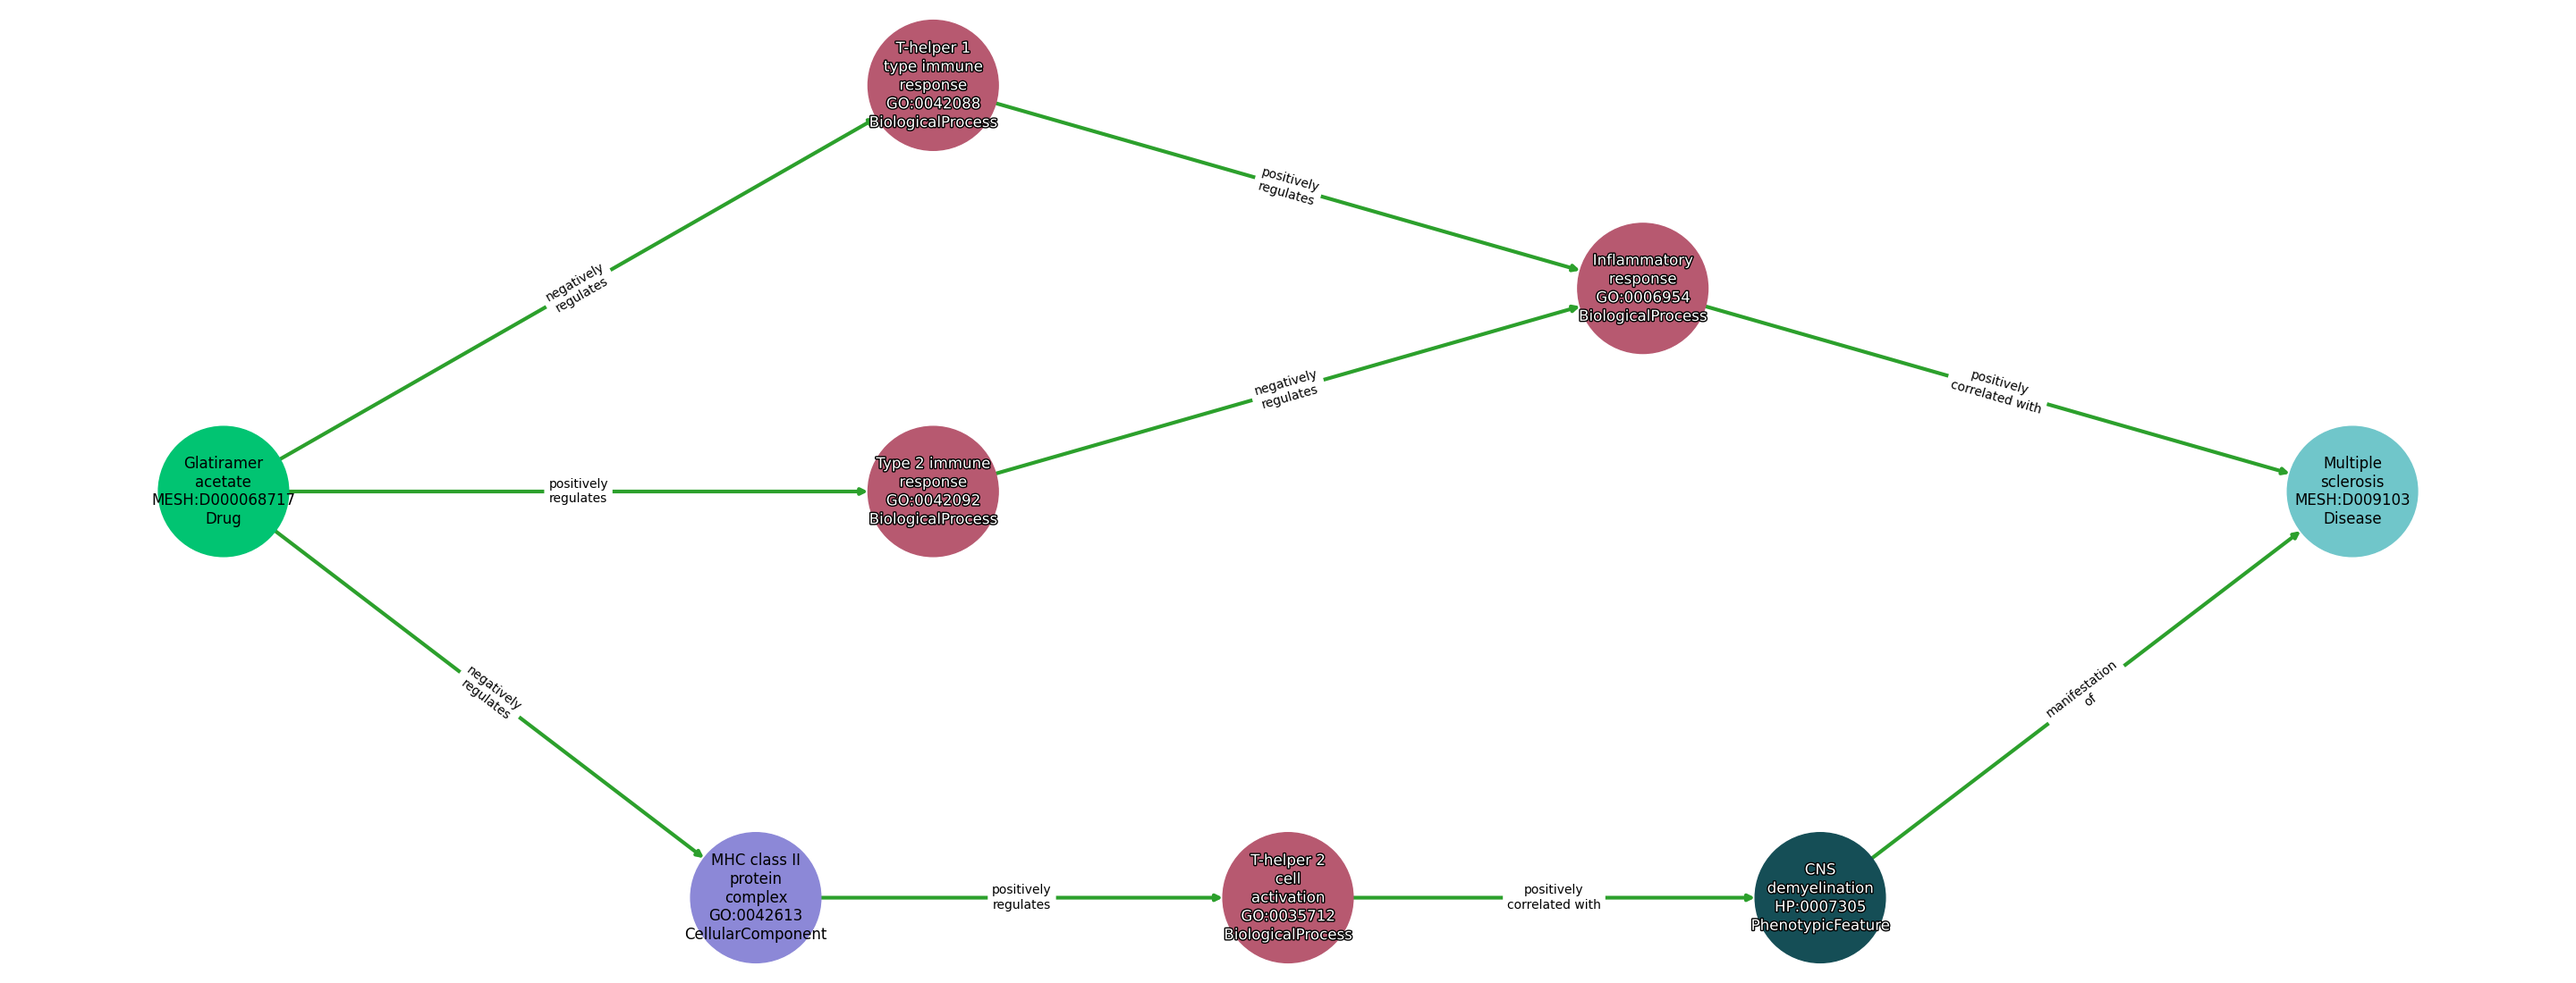
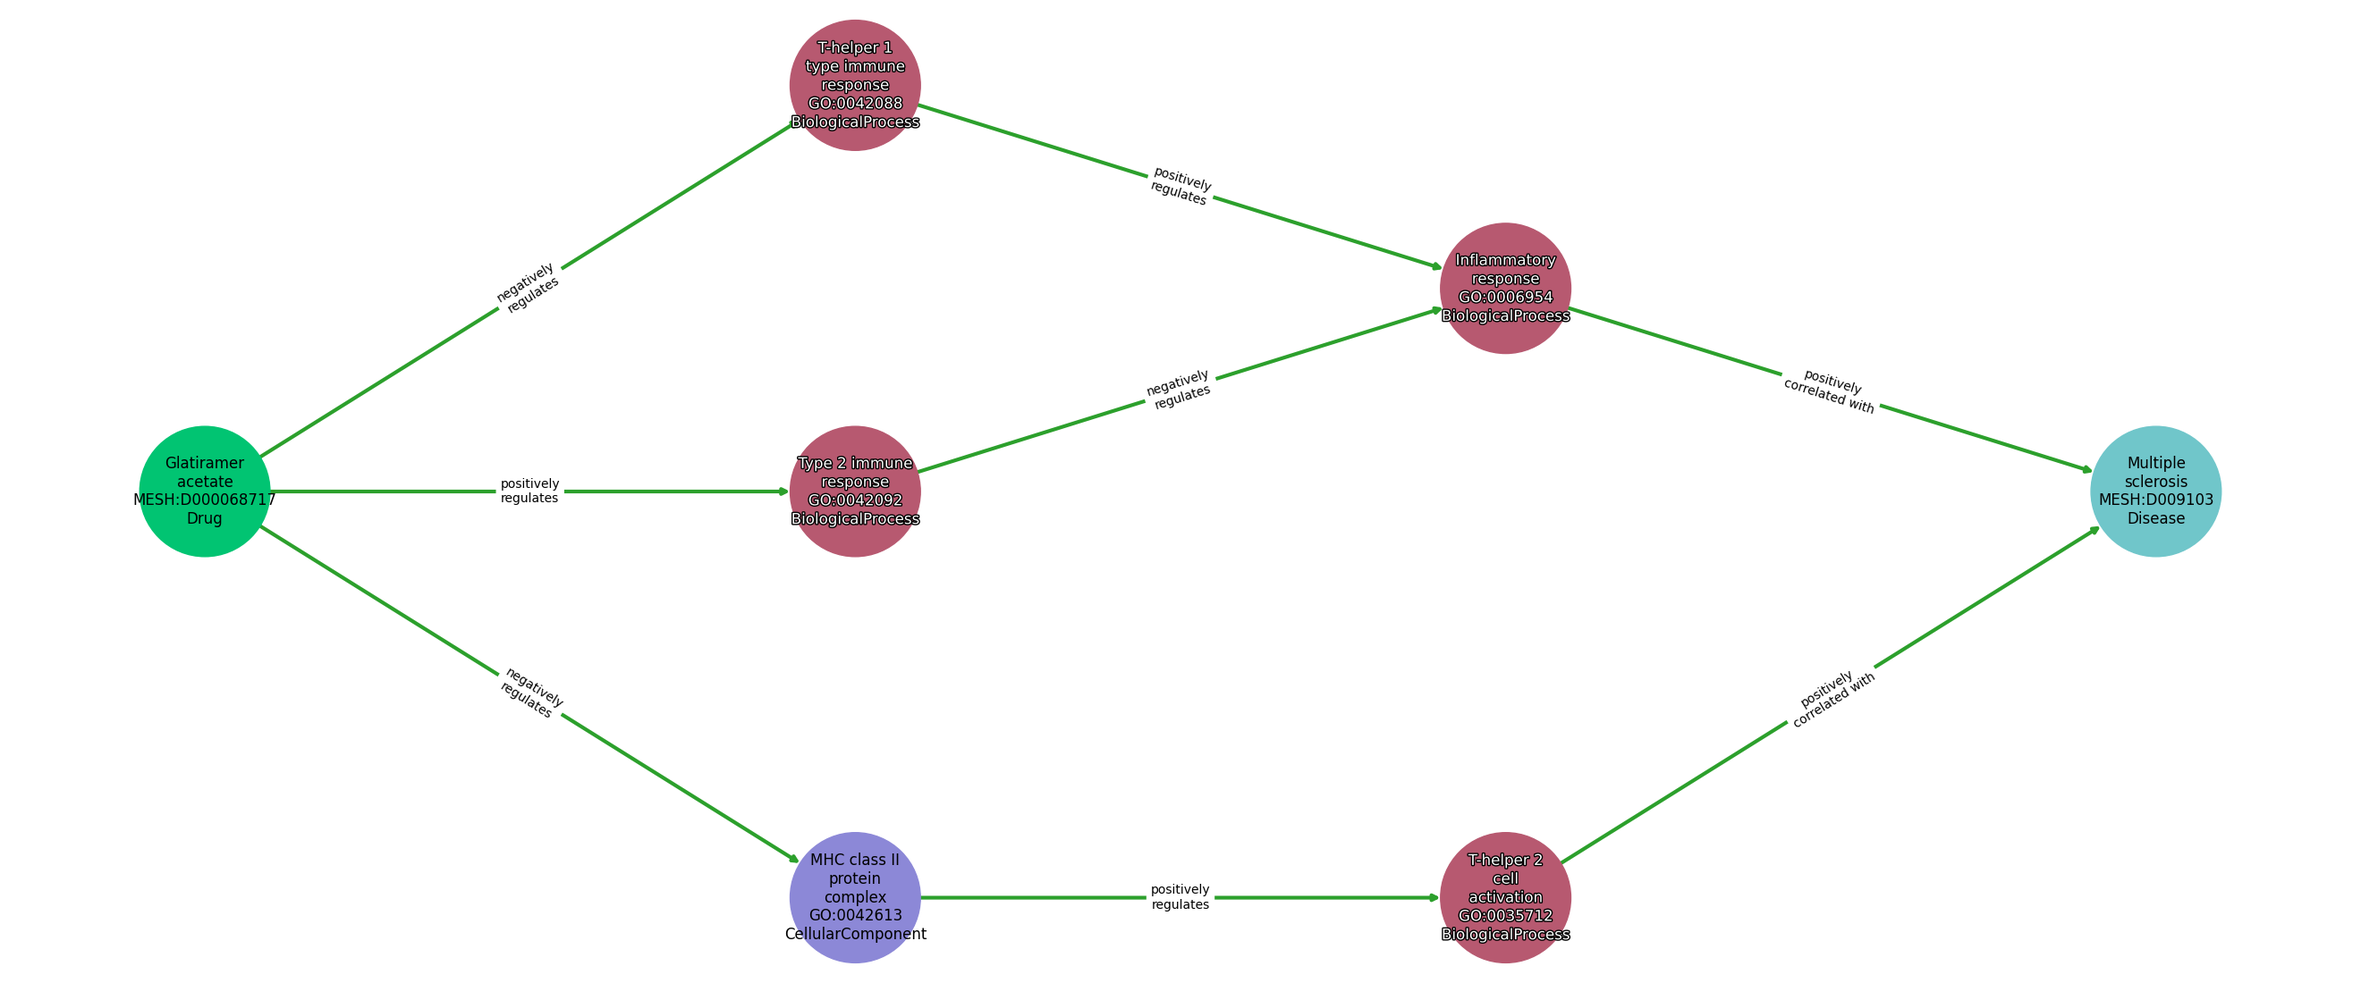
Update to Website

diff --git a/pages/mydoc/overview.md b/pages/mydoc/overview.md
@@ -2248,7 +2248,7 @@ datatable: true
 | [DB00951_MESH_D014397_1](db00951-mesh-d014397-1.html) | isoniazid | DB:DB00951 | MESH:D007538 | Pulmonary tuberculosis | MESH:D014397 | 7 | 6 |
 | [DB08908_MESH_D011565_1](db08908-mesh-d011565-1.html) | Dimethyl fumarate | DB:DB08908 | MESH:D000069462 | Psoriasis | MESH:D011565 | 9 | 10 |
 | [DB04786_MESH_D014353_1](db04786-mesh-d014353-1.html) | suramin | DB:DB04786 | MESH:D013498 | African trypanosomiasis | MESH:D014353 | 5 | 4 |
-| [DB05259_MESH_D009103_1](db05259-mesh-d009103-1.html) | glatiramer acetate | DB:DB05259 | MESH:D000068717 | Multiple sclerosis | MESH:D009103 | 8 | 9 |
+| [DB05259_MESH_D009103_1](db05259-mesh-d009103-1.html) | glatiramer acetate | DB:DB05259 | MESH:D000068717 | Multiple sclerosis | MESH:D009103 | 7 | 8 |
 | [DB09020_MESH_D003248_1](db09020-mesh-d003248-1.html) | bisacodyl | DB:DB09020 | MESH:D001726 | Constipation | MESH:D003248 | 9 | 10 |
 | [DB09241_MESH_D008708_1](db09241-mesh-d008708-1.html) | methylthioninium chloride | DB:DB09241 | MESH:D008751 | Methemoglobinemia | MESH:D008708 | 4 | 3 |
 | [DB09242_MESH_D000075222_1](db09242-mesh-d000075222-1.html) | moxonidine | DB:DB09242 | MESH:C043482 | Essential hypertension | MESH:D000075222 | 9 | 9 |

diff --git a/pages/mydoc/db05259-mesh-d009103-1.md b/pages/mydoc/db05259-mesh-d009103-1.md
@@ -20,7 +20,6 @@ Path ID: `DB05259_MESH_D009103_1`
 | GO:0006954 | Inflammatory response | BiologicalProcess |
 | GO:0042613 | MHC class II protein complex | CellularComponent |
 | GO:0035712 | T-helper 2 cell activation | BiologicalProcess |
-| HP:0007305 | CNS demyelination | PhenotypicFeature |
 | MESH:D009103 | Multiple sclerosis | Disease |
 |------------|------|---------|
 
@@ -36,8 +35,7 @@ Path ID: `DB05259_MESH_D009103_1`
 | Inflammatory Response | POSITIVELY CORRELATED WITH | Multiple Sclerosis |
 | Glatiramer Acetate | NEGATIVELY REGULATES | Mhc Class Ii Protein Complex |
 | Mhc Class Ii Protein Complex | POSITIVELY REGULATES | T-Helper 2 Cell Activation |
-| T-Helper 2 Cell Activation | POSITIVELY CORRELATED WITH | Cns Demyelination |
-| Cns Demyelination | MANIFESTATION OF | Multiple Sclerosis |
+| T-Helper 2 Cell Activation | POSITIVELY CORRELATED WITH | Multiple Sclerosis |
 |---------|-----------|---------|
 
 Comment: The mechanism of action for glatiramer acetate is not fully elucidated.
